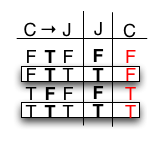
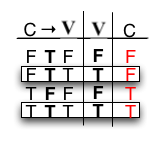
update lecture 4
update lecture 4

Changed region(s): [[0.1006, 0.1408, 0.956, 0.2817]]

diff --git a/lectures/lecture04.md b/lectures/lecture04.md
@@ -191,19 +191,19 @@ Conditional Arguments
 
 **Example 8**
 
-    If Jones was convicted of murdering Smith, then he will go to jail.
-    Jones will go to jail.
-    Therefore, Jones was convicted of murdering Smith.
+    If Joe cheated on the exam, then he will receive an academic integrity violation.
+    Joe received an academic integrity violation.
+    Therefore, Joe cheated on the exam.
 
-> *C*: "Jones was convicted of murdering Smith."
+> *C*: "Joe cheated on the exam."
 
-> *J*: "Jones will go to jail."
+> *V*: "Joe received an academic integrity violation."
 
 Symbolically
 
-> *C* → *J*
+> *C* → *V*
 >
-> *J*
+> *V*
 >
 > ∴ *C*
 
